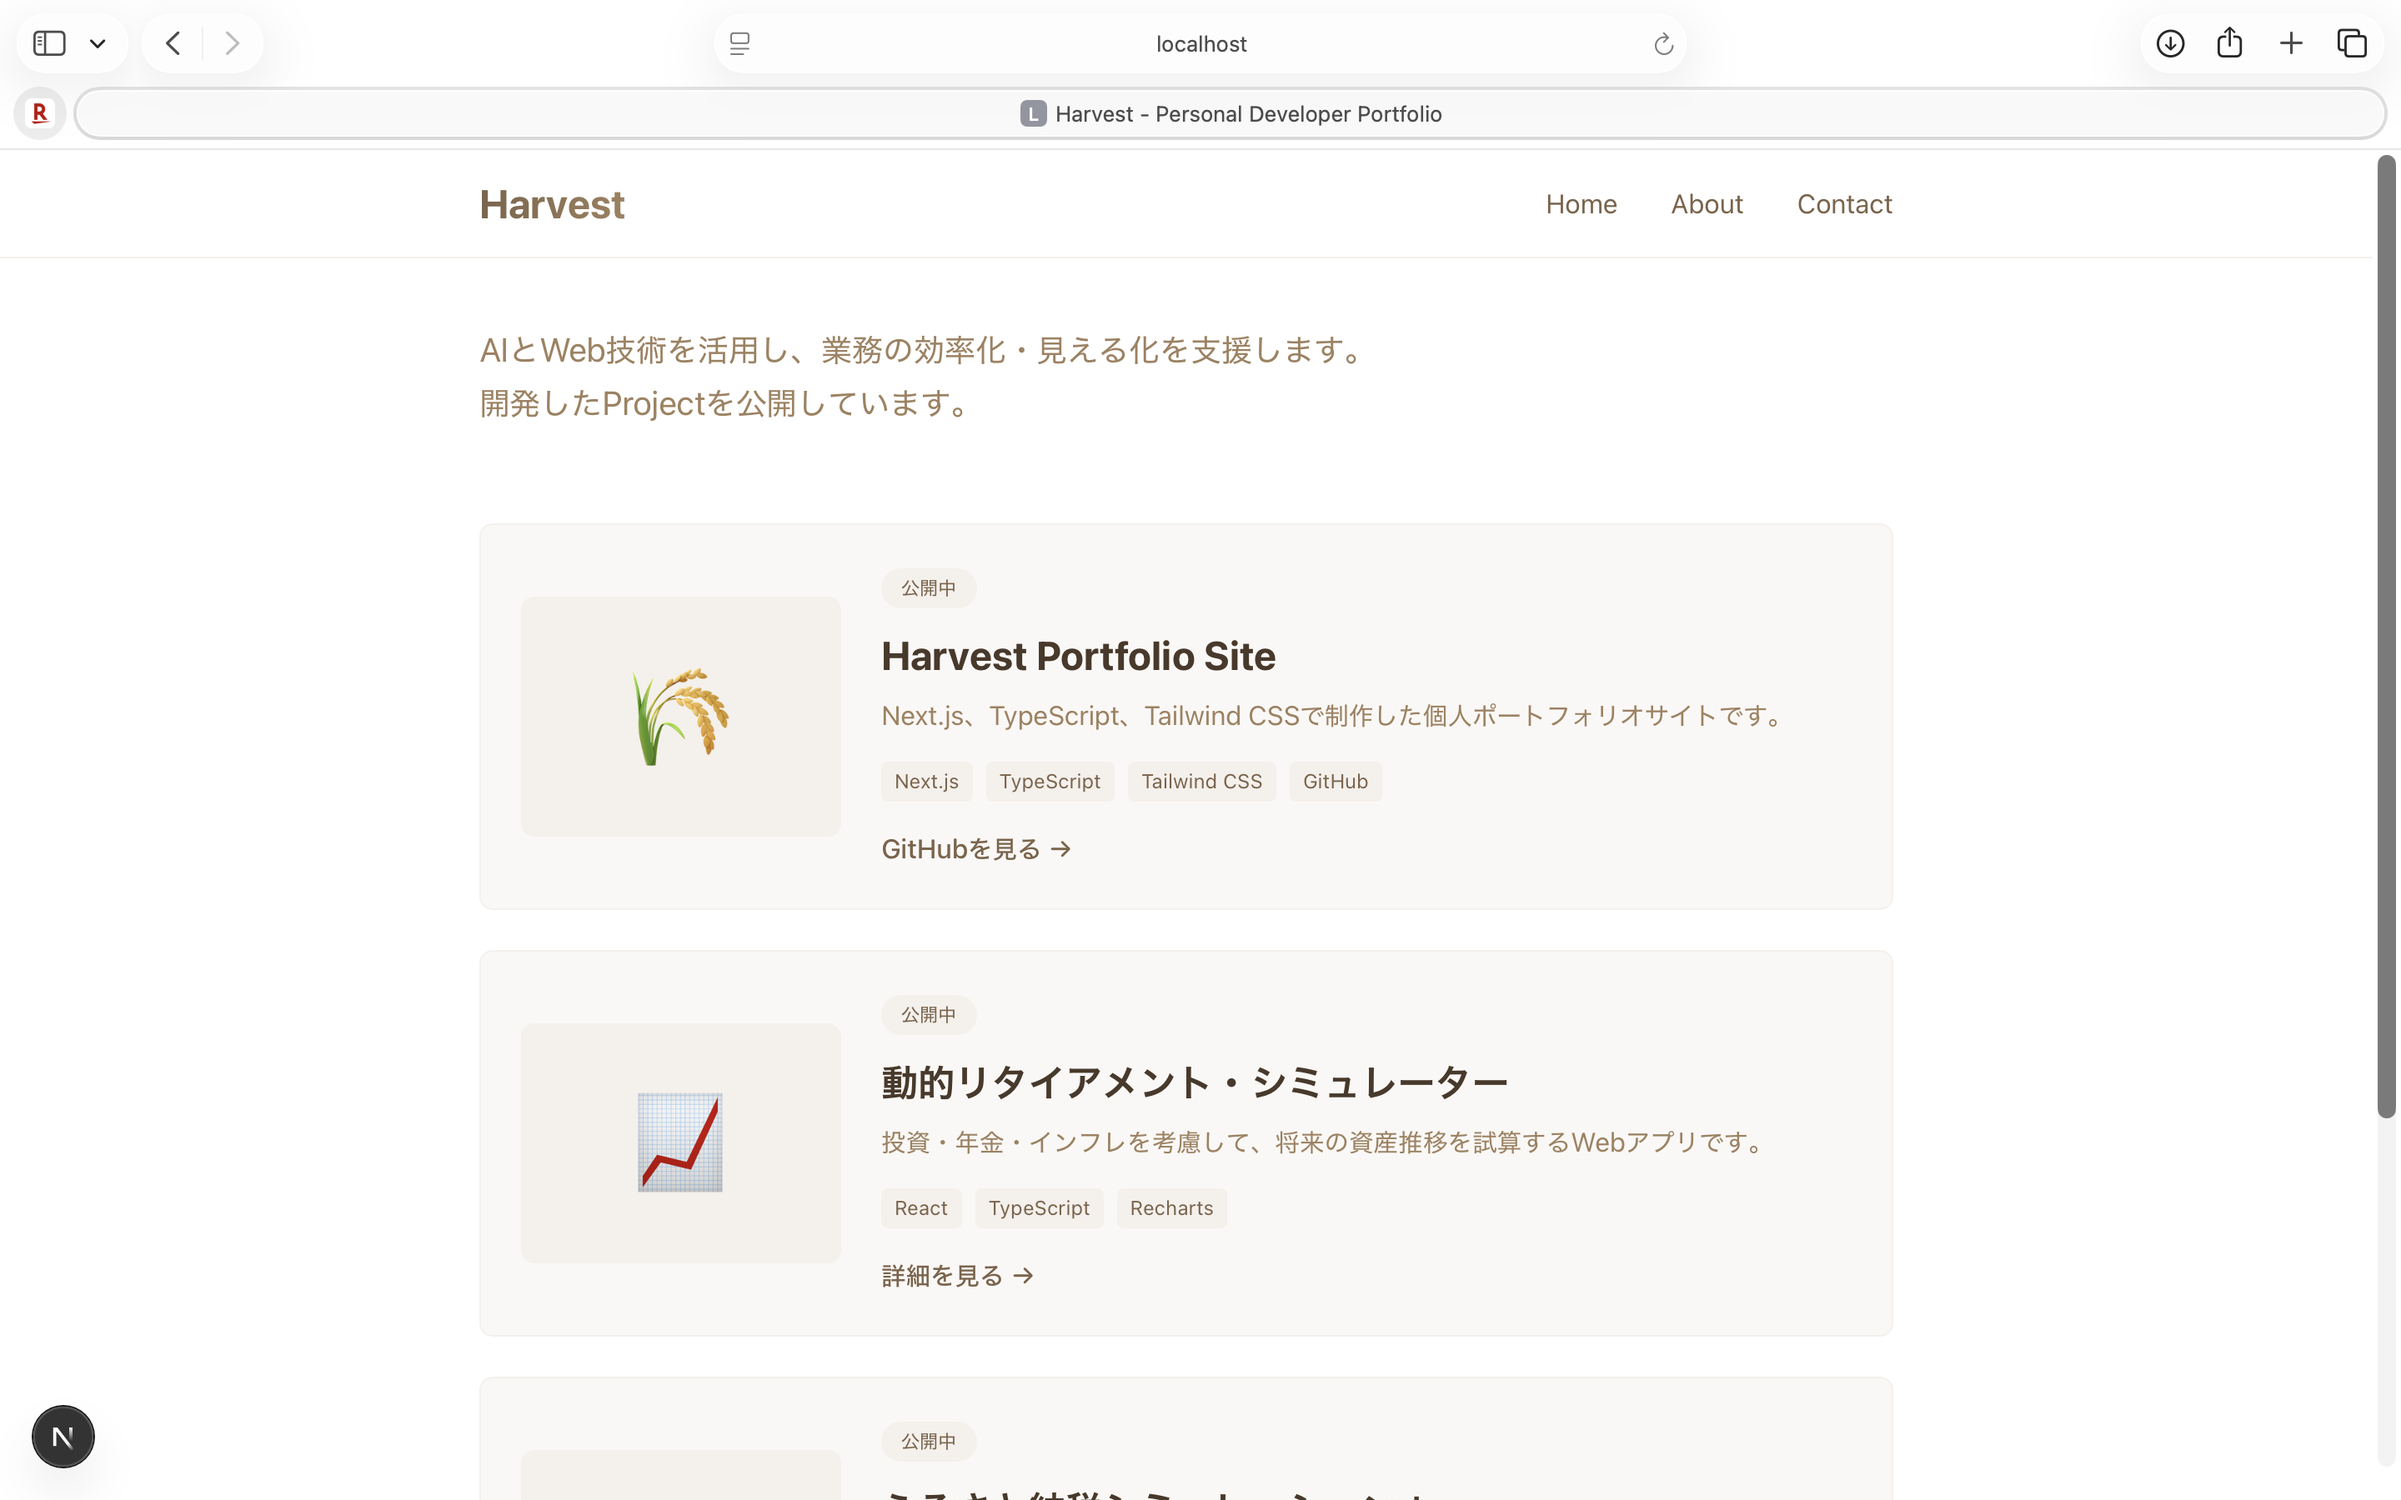
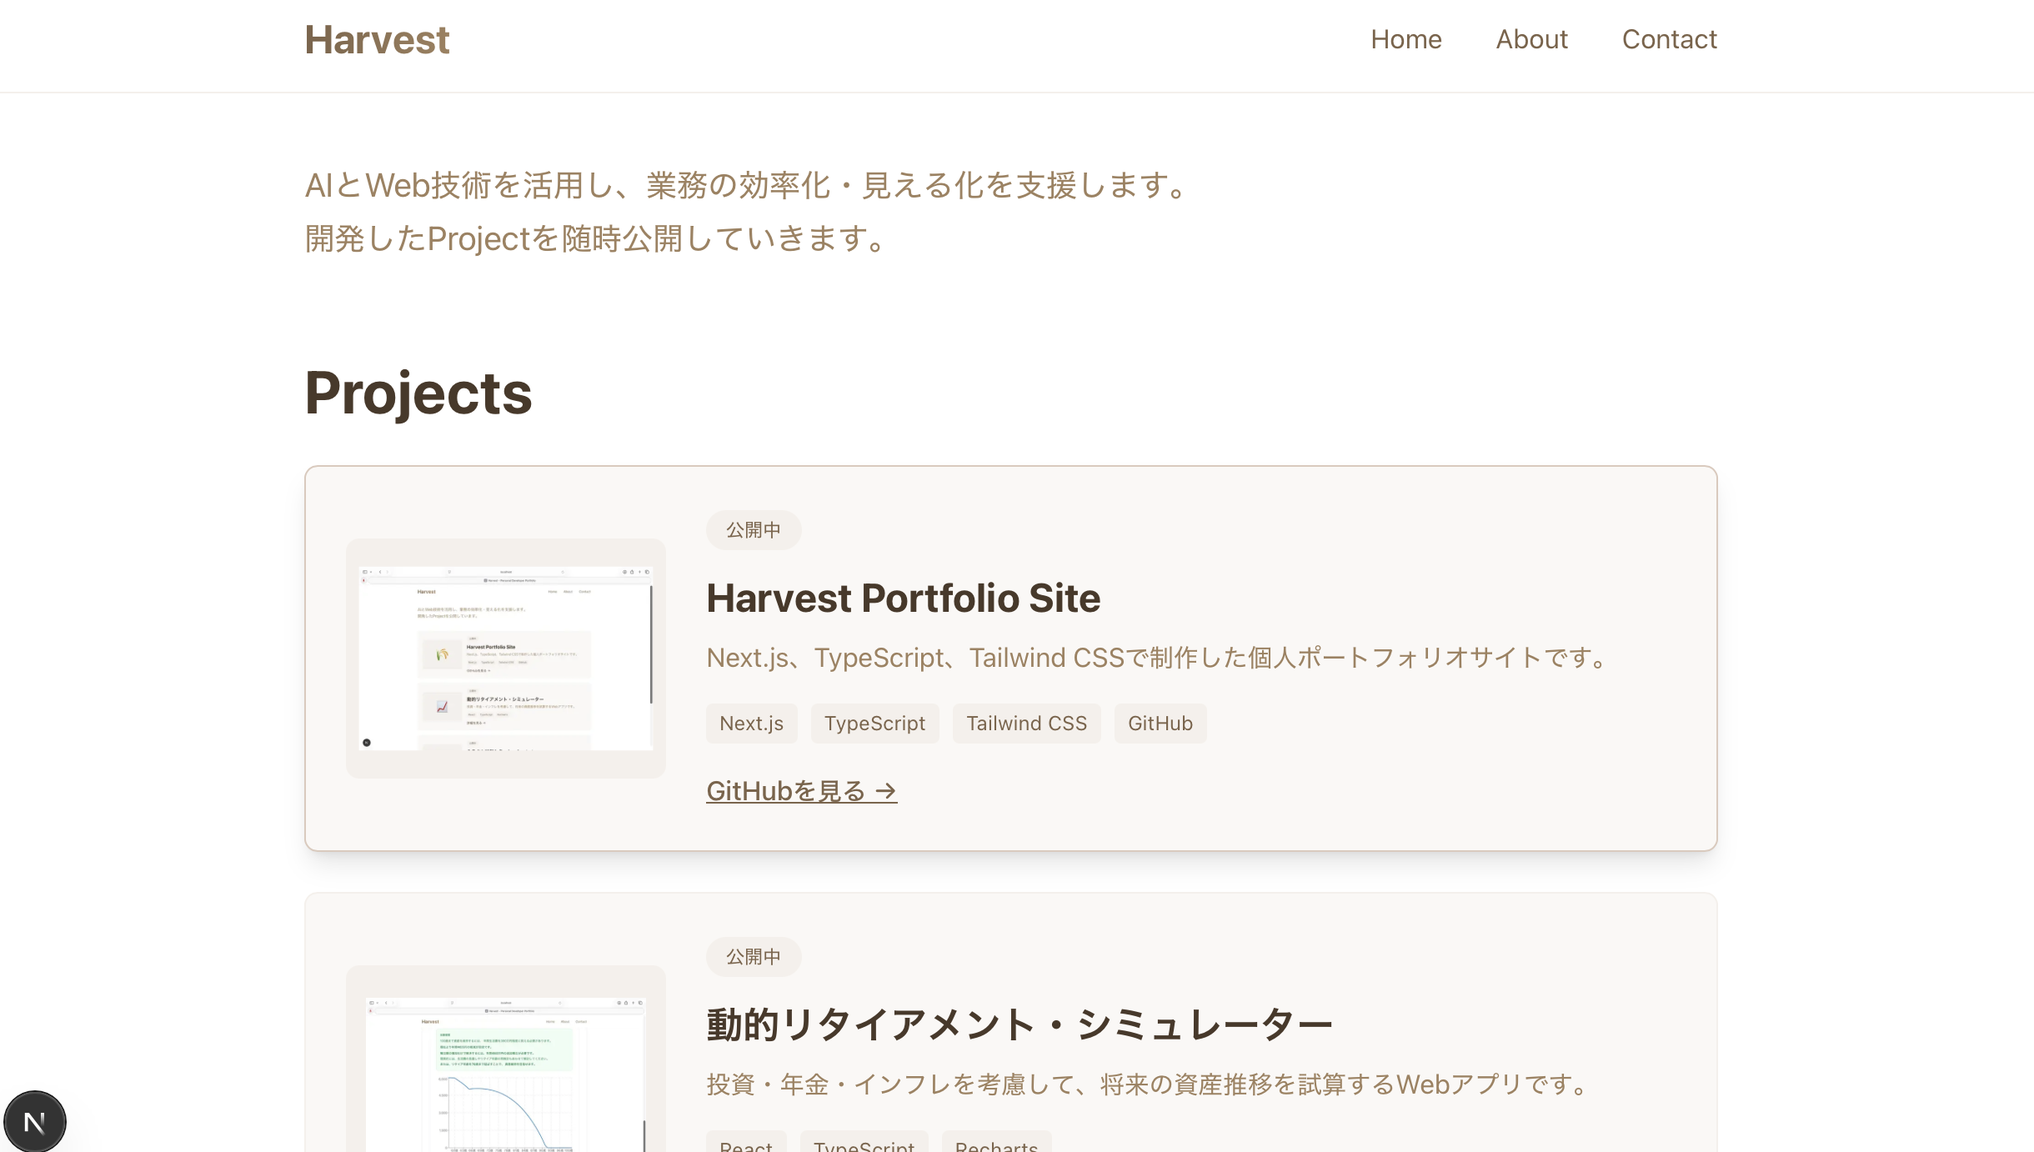
Portfolioの外観を微調整

diff --git a/src/app/page.tsx b/src/app/page.tsx
@@ -63,13 +63,14 @@ const projects = [
               className="card group transition-all hover:shadow-lg"
             >
               <div className="flex flex-col gap-6 md:flex-row md:items-center">
-                <div className="relative h-40 w-full overflow-hidden rounded-lg bg-harvest-100 md:h-36 md:w-48 md:flex-shrink-0">
+                {/* Thumbnail Area */}
+                <div className="relative h-44 w-full overflow-hidden rounded-lg border border-harvest-100 bg-white md:h-40 md:w-64 md:flex-shrink-0">
                   <Image
                     src={project.thumbnail}
                     alt={`${project.title}のサムネイル`}
                     fill
-                    className="object-contain p-3 transition-transform duration-300 group-hover:scale-105"
-                    sizes="(min-width: 768px) 192px, 100vw"
+                    className="object-cover transition-transform duration-300 group-hover:scale-105"
+                    sizes="(min-width: 768px) 256px, 100vw"
                   />
                 </div>
 
@@ -130,7 +131,7 @@ const projects = [
         <h2 className="heading-2 mb-6">Concept</h2>
         <div className="max-w-3xl">
           <p className="mb-6 max-w-2xl text-xl leading-relaxed text-harvest-600">
-            実り、信頼、AI活用、落ち着いた雰囲気を追求するポートフォリオサイト
+            実りある成果、信頼、AI活用、落ち着いた雰囲気を追求するWebサイト
           </p>
         </div>
       </section>

diff --git a/src/components/RetirementSimulator.tsx b/src/components/RetirementSimulator.tsx
@@ -687,7 +687,7 @@ export default function RetirementSimulator() {
     <section className="mx-auto max-w-6xl px-4 py-10">
       <div className="mb-8">
         <h1 className="text-3xl font-bold text-gray-900">
-          動的リタイアメント・シミュレーター
+          リタイアメント・シミュレーター
         </h1>
         <p className="mt-3 text-gray-600">
           年齢、資産、積立額、生活費、年金、投資リターン、インフレ率をもとに、<br/>

diff --git a/src/app/works/page.tsx b/src/app/works/page.tsx
@@ -18,7 +18,7 @@ export default function Works() {
       id: 2,
       icon: "📈",
       status: "公開中",
-      title: "動的リタイアメント・シミュレーター",
+      title: "リタイアメント・シミュレーター",
       description:
         "投資・年金・インフレを考慮して、将来の資産推移を試算するWebアプリです。",
       technologies: ["React", "TypeScript", "Recharts"],
